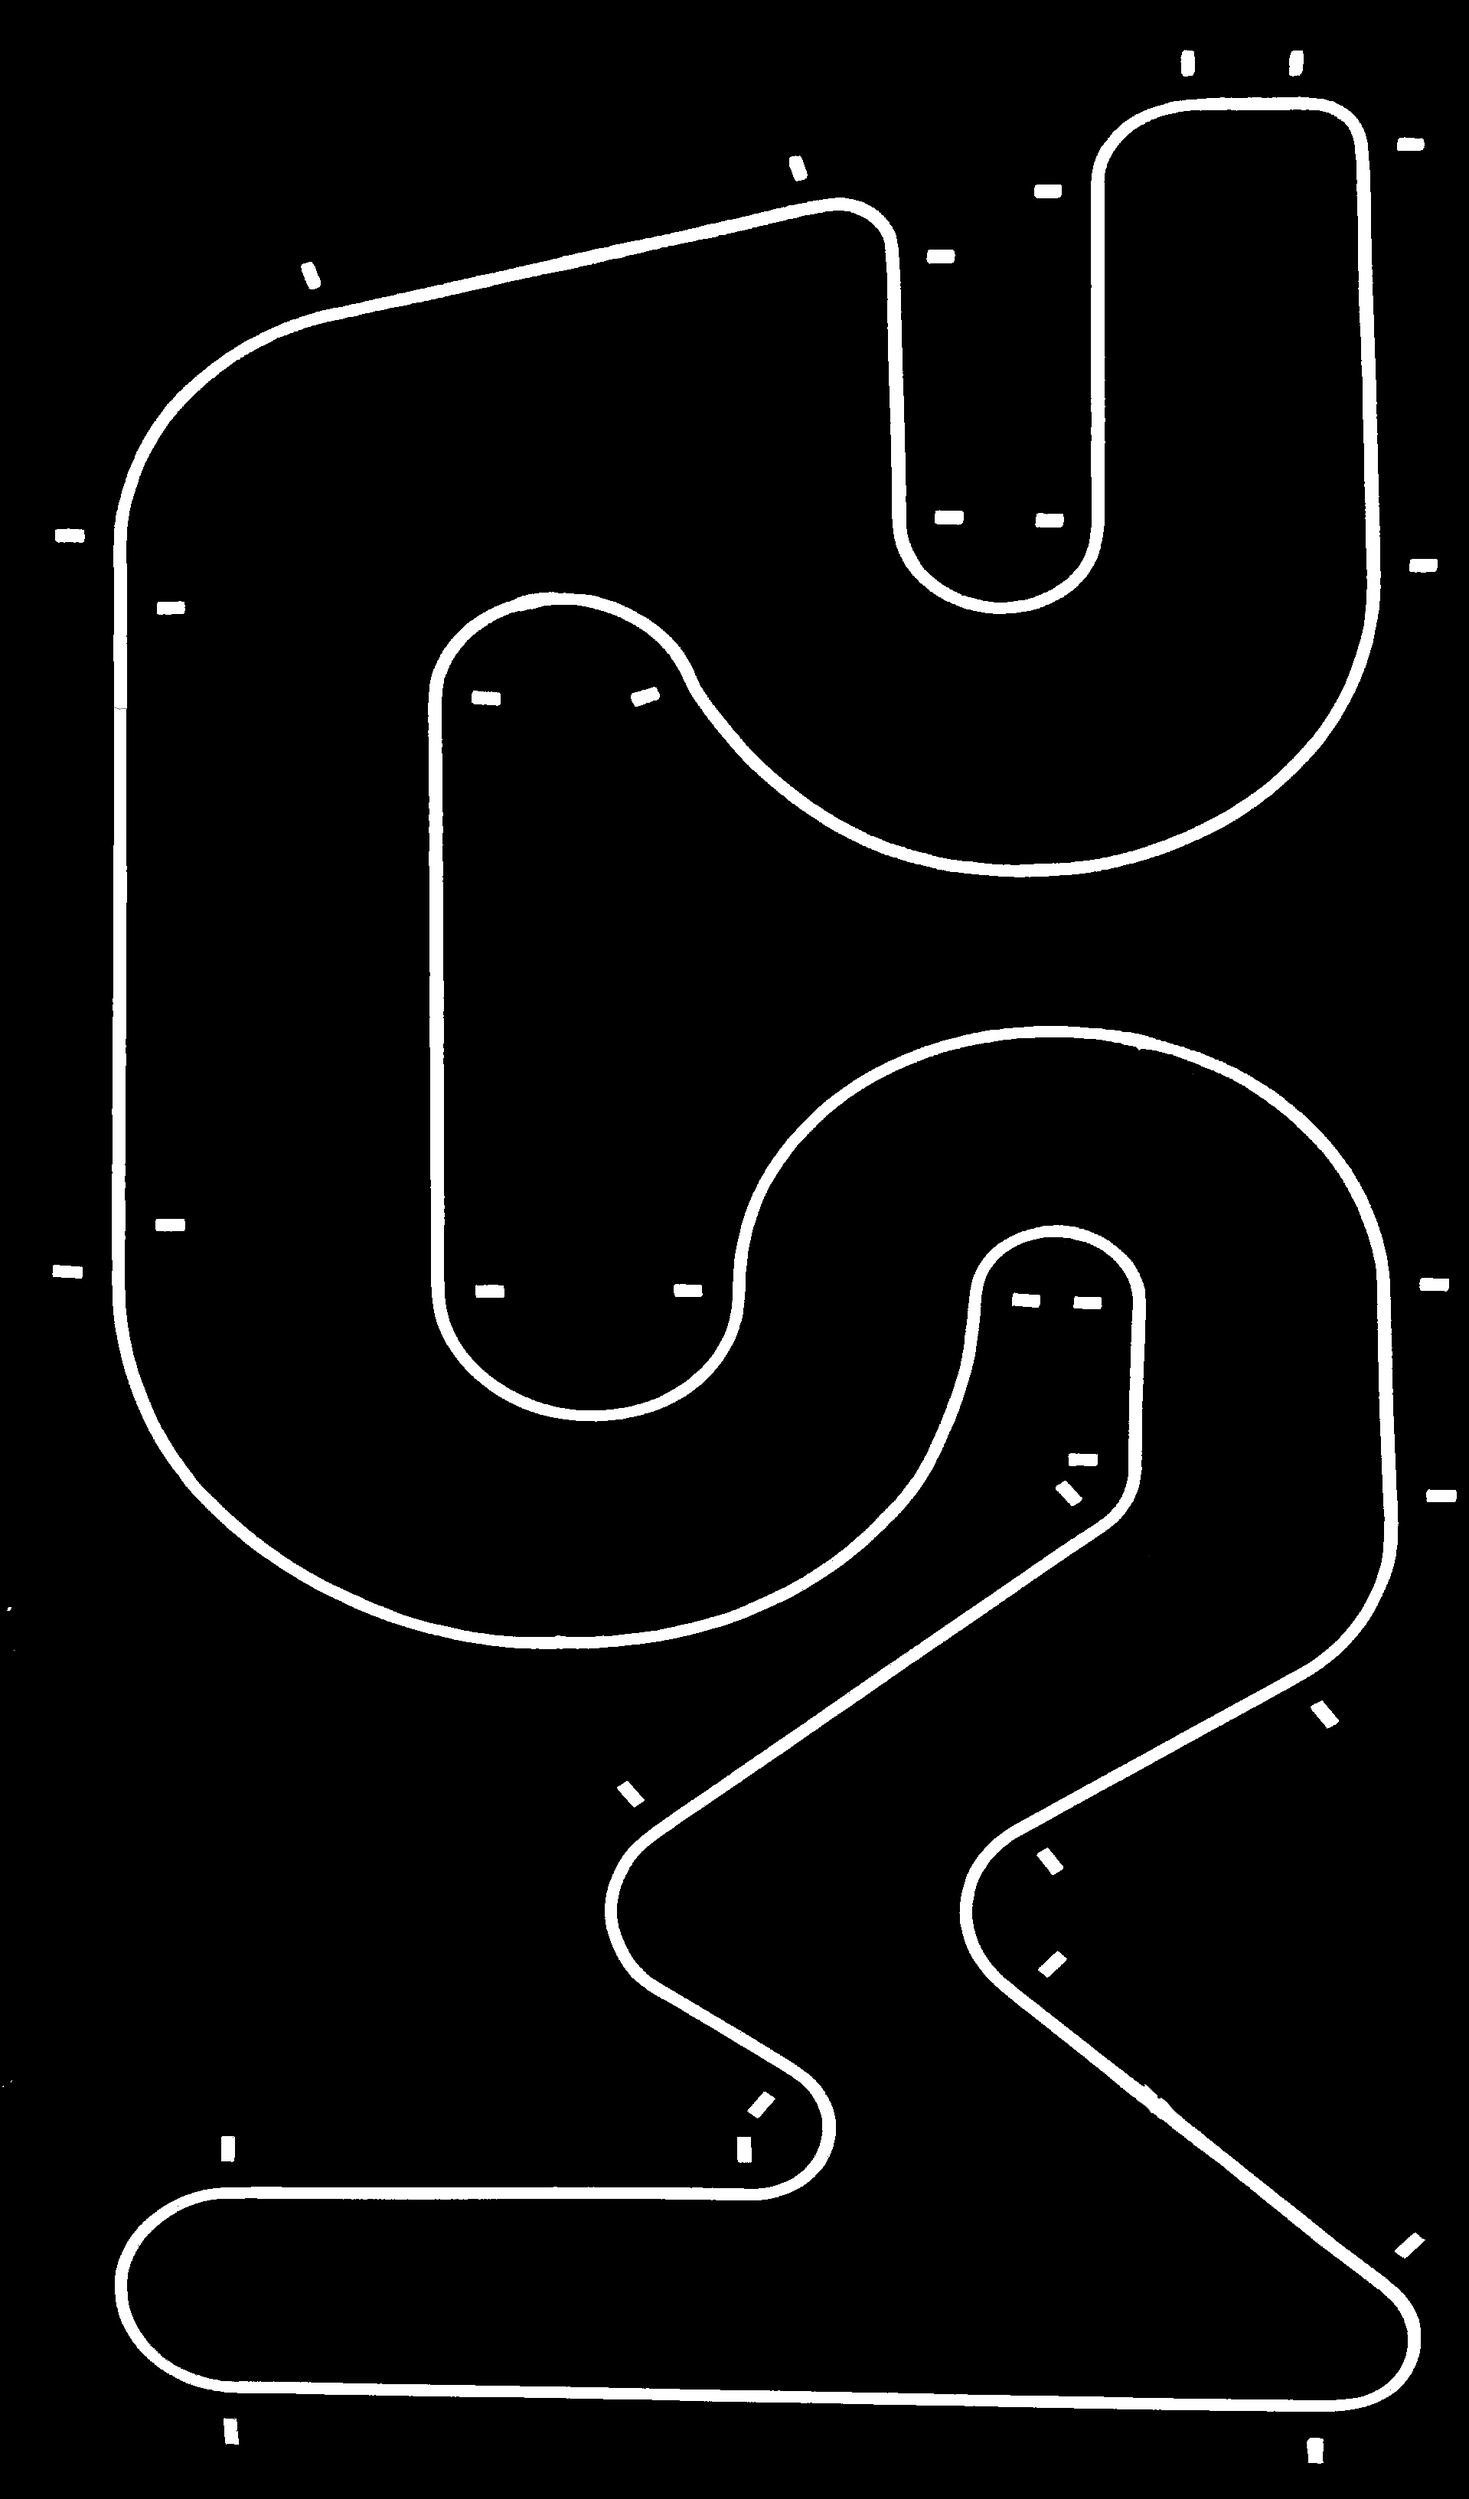
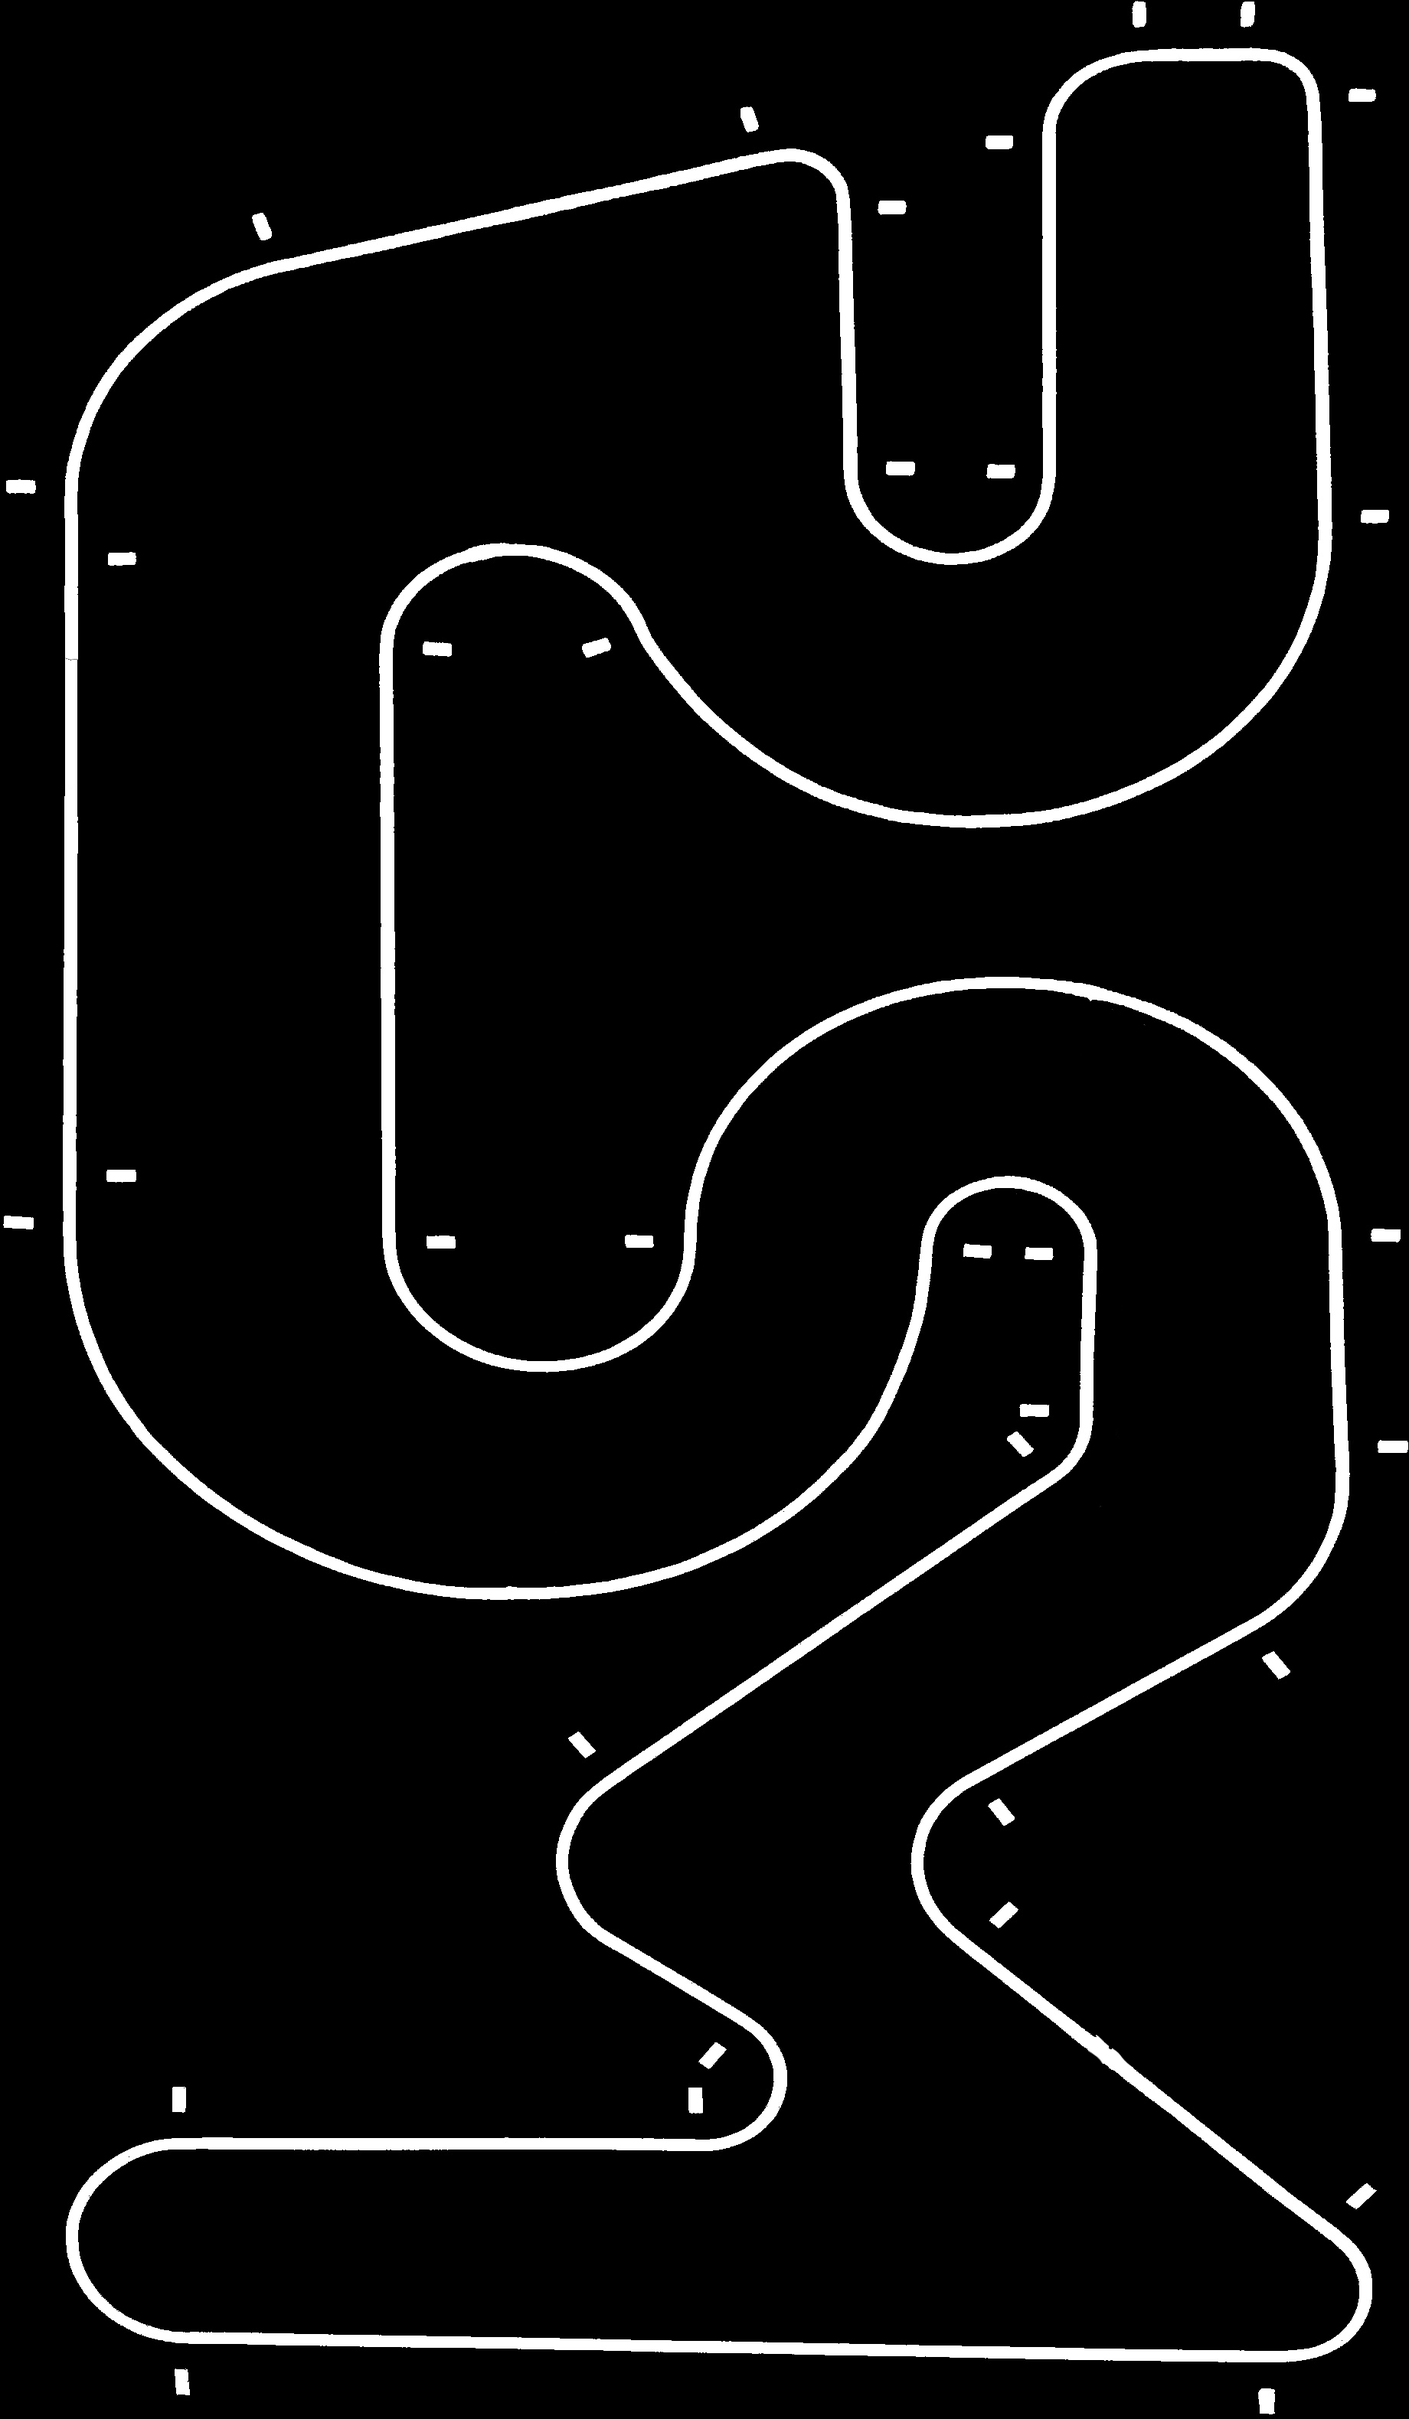
Add waypoint generation

diff --git a/image_conversion/waypoint_from_img.py b/image_conversion/waypoint_from_img.py
@@ -1,0 +1,86 @@
+import os
+import pygame
+
+
+INPUT_MAP_NAME = "gimp-filter-rsm-2023.png"
+WAYPOINT_LIST_NAME = "waypoints.txt"
+
+MAP_X_SIZE_CM = 230
+MAP_Y_SIZE_CM = 395
+
+
+class Game:
+    def __init__(self):
+        pygame.init()
+        pygame.display.set_caption("Waypoint Generator")
+        self.exit = False
+        self.map_x_size = self.centimeters_to_pixel(MAP_X_SIZE_CM)
+        self.map_y_size = self.centimeters_to_pixel(MAP_Y_SIZE_CM)
+
+        self.margin = 100 # pixels
+        width = self.map_x_size + self.margin
+        height = self.map_y_size + self.margin
+        self.screen = pygame.display.set_mode((width, height))
+        self.waypoint_list = []
+
+    def centimeters_to_pixel(self, centimeters):
+        return centimeters * 2
+    
+    def save_waypoint_list(self):
+        current_dir = os.path.dirname(os.path.abspath(__file__))
+        map_path = os.path.join(current_dir, "waypoints", WAYPOINT_LIST_NAME)
+
+        with open(map_path, "w") as f:
+            for point in self.waypoint_list:
+                f.write(f"{point[0]},{point[1]}\n")
+
+
+    def run(self):
+        current_dir = os.path.dirname(os.path.abspath(__file__))
+        map_path = os.path.join(current_dir, "img_filtered", INPUT_MAP_NAME)
+        custom_map = pygame.image.load(map_path)
+        resized_custom_map = pygame.transform.scale(custom_map, (self.map_x_size, self.map_y_size))
+        self.screen.blit(resized_custom_map, (self.margin / 2, self.margin / 2))
+        pygame.display.flip()
+
+        while not self.exit:
+            # Event queue
+            for event in pygame.event.get():
+                if event.type == pygame.QUIT:
+                    self.save_waypoint_list()
+                    self.exit = True
+
+                elif event.type == pygame.MOUSEBUTTONDOWN:
+                    pos = pygame.mouse.get_pos()
+                    print(f"Mouse clicked at ({pos[0]}, {pos[1]})")
+                    self.waypoint_list.append(pos)
+                    
+                elif event.type == pygame.KEYDOWN and event.key == pygame.K_BACKSPACE:
+                    print("Backspace key pressed")
+                    if (len(self.waypoint_list) > 0):
+                        self.screen.fill((0, 0, 0))
+                        self.screen.blit(resized_custom_map, (self.margin / 2, self.margin / 2))
+                        self.waypoint_list.pop()
+
+                elif event.type == pygame.KEYDOWN and event.key == pygame.K_DELETE:
+                    print("Delete key pressed")
+                    if (len(self.waypoint_list) > 0):
+                        self.screen.fill((0, 0, 0))
+                        self.screen.blit(resized_custom_map, (self.margin / 2, self.margin / 2))
+                        self.waypoint_list.pop()
+                
+                elif event.type == pygame.KEYDOWN and event.key == pygame.K_s:
+                    self.save_waypoint_list()
+                    
+            for waypoint in self.waypoint_list:
+                pygame.draw.circle(self.screen, (255, 0, 255), (waypoint[0], waypoint[1]), 3)
+
+            pygame.display.flip()
+
+            
+
+        pygame.quit()
+
+if __name__ == '__main__':
+    game = Game()
+    game.run()

diff --git a/generate_track.py b/generate_track.py
@@ -215,10 +215,10 @@ class Map:
 
     def load_map_from_file(self):
             current_dir = os.path.dirname(os.path.abspath(__file__))
-            my_path = os.path.join(current_dir, "map1.png")
-            my_map = pygame.image.load(my_path)
-            resized_my_map = pygame.transform.scale(my_map, (480, 810)) # 36pixels -> 18cm
-            self.screen.blit(resized_my_map, (45, 30))
+            map_path = os.path.join(current_dir, "map1.png")
+            custom_map = pygame.image.load(map_path)
+            resized_custom_map = pygame.transform.scale(custom_map, (480, 810)) # 36pixels -> 18cm
+            self.screen.blit(resized_custom_map, (45, 30))
 
 
 def main():

diff --git a/image_conversion/intructions.md b/image_conversion/intructions.md
@@ -1,0 +1,8 @@
+# 1. Take a picture of the map
+# 2. Crop and align img using office lens
+# 3. Adjust parameters in map_from_img.py, such as input file, out file, and threshold
+# 4. Run map_from_img.py to convert image to black and white
+# 5. Use GIMP (or any other) to adjust small errors in generated image
+# 6. Crop the image to include only the map (Image >> Crop to content in GIMP)
+# 7. Generate waypoints using waypoint_from_img. Remember to edit MAP_X_SIZE_CM to contain real size of the map
+# 8. Waypoints are saved in a waypoint.txt file that can be be leoaded into maps
